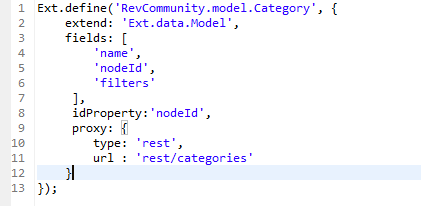
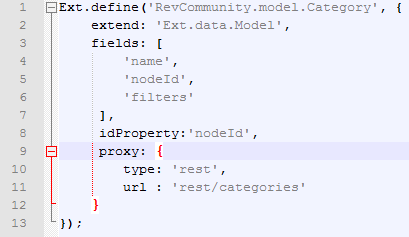
Przerobienie kodów na notepad++

diff --git a/kody/json.js b/kody/json.js
@@ -1,0 +1,17 @@
+{
+    extend: 'Ext.data.Model',
+    fields: [
+          'channel',
+          'notification',
+          {
+			name:'product',
+			mapping:'channel.channelProduct'
+		  }         
+    ],
+    idProperty:'extid',
+    proxy: {
+        type: 'rest',
+        url : 'rest/subscriptions/products/notifications'
+    }
+}
+

diff --git a/serwer.tex b/serwer.tex
@@ -31,7 +31,7 @@ Do implementacji warstwy komunikacji wykorzystano Spring MVC. Jest to element Sp
 
 \begin{figure}[H]
 	\centering
-	\includegraphics[width=\textwidth]{images/dispatcher.png}
+	\includegraphics{images/dispatcher.png}
 	\caption{Konfiguracja DispatcherServlet}
 \end{figure}
 
@@ -98,6 +98,7 @@ Gdy obiekty bazodanowe zostaną zamodelowane, przydatne staną się elementy umo
 \begin{figure}[H]
 	\centering
 	\includegraphics{images/findbyusername.png}
+	\caption{Prosta metoda wyszukująca}
 \end{figure}
 
 
@@ -107,6 +108,7 @@ Nazwy metod mogą wykorzystywać bardziej złożone wzorce, pozwalające na zdef
 \begin{figure}[H]
 	\centering
 	\includegraphics{images/findlong.png}
+	\caption{Rozbudowana metoda wyszukująca}
 \end{figure}
 
 
@@ -118,6 +120,7 @@ Przejdźmy do przykładu:
 \begin{figure}[H]
 	\centering
 	\includegraphics{images/query.png}
+	\caption{Zastosowanie adnotacji @Query}
 \end{figure}
 
 Jako parametr podano kategorię, dla której należy znaleźć kategorie podrzędne(dzieci). Podany argument jest miejscem zaczepienia w~grafie, od którego rozpocznie się dopasowanie. Klauzula MATCH odpowiada za definicje relacji między węzłami biorącymi udział w~dopasowaniu. Słowo kluczowe RETURN określa, który ze zdefiniowanych elementów zostanie zwrócony jako wynik zapytania. Najciekawsza tutaj jest klauzula MATCH. To ona wprowadza abstrakcję grafu i~odróżnia zapytanie od np. języka SQL. Fragment zawarty między MATCH, a~RETURN określa wzór dopasowania między węzłem parent(podanym jako parametr) a~węzłami połączonymi z~nim jednokierunkową wychodzącą relacją o~nazwie CONTAINS. 

diff --git a/klient.tex b/klient.tex
@@ -14,7 +14,7 @@ Definiuje klasy będące odwzorowaniem klas języka Java, które aplikacja otrzy
 
 \begin{figure}[H]
 	\centering
-	\includegraphics[width=\textwidth]{images/ext_model.png}
+	\includegraphics{images/ext_model.png}
 	\caption{Przykład definicji modelu w~Ext JS}
 \end{figure}
 
@@ -22,7 +22,7 @@ Powyższy kod implementuje klasę modelu Category. Dzięki definicji obiektu pro
 
 \begin{figure}[H]
 	\centering
-	\includegraphics[width=\textwidth]{images/save_model.png}
+	\includegraphics{images/save_model.png}
 	\caption{Zapis obiektu poprzez klasę modelu}
 \end{figure}
 
@@ -46,7 +46,7 @@ Widok komponentu w~całości definiuje powyższy szablon. Na początku znajduje 
  
 \begin{figure}[H]
 	\centering
-	\includegraphics[width=\textwidth]{images/subs.png}
+	\includegraphics{images/subs.png}
 	\caption{Widok listy subskrypcji}
 \end{figure}
 
